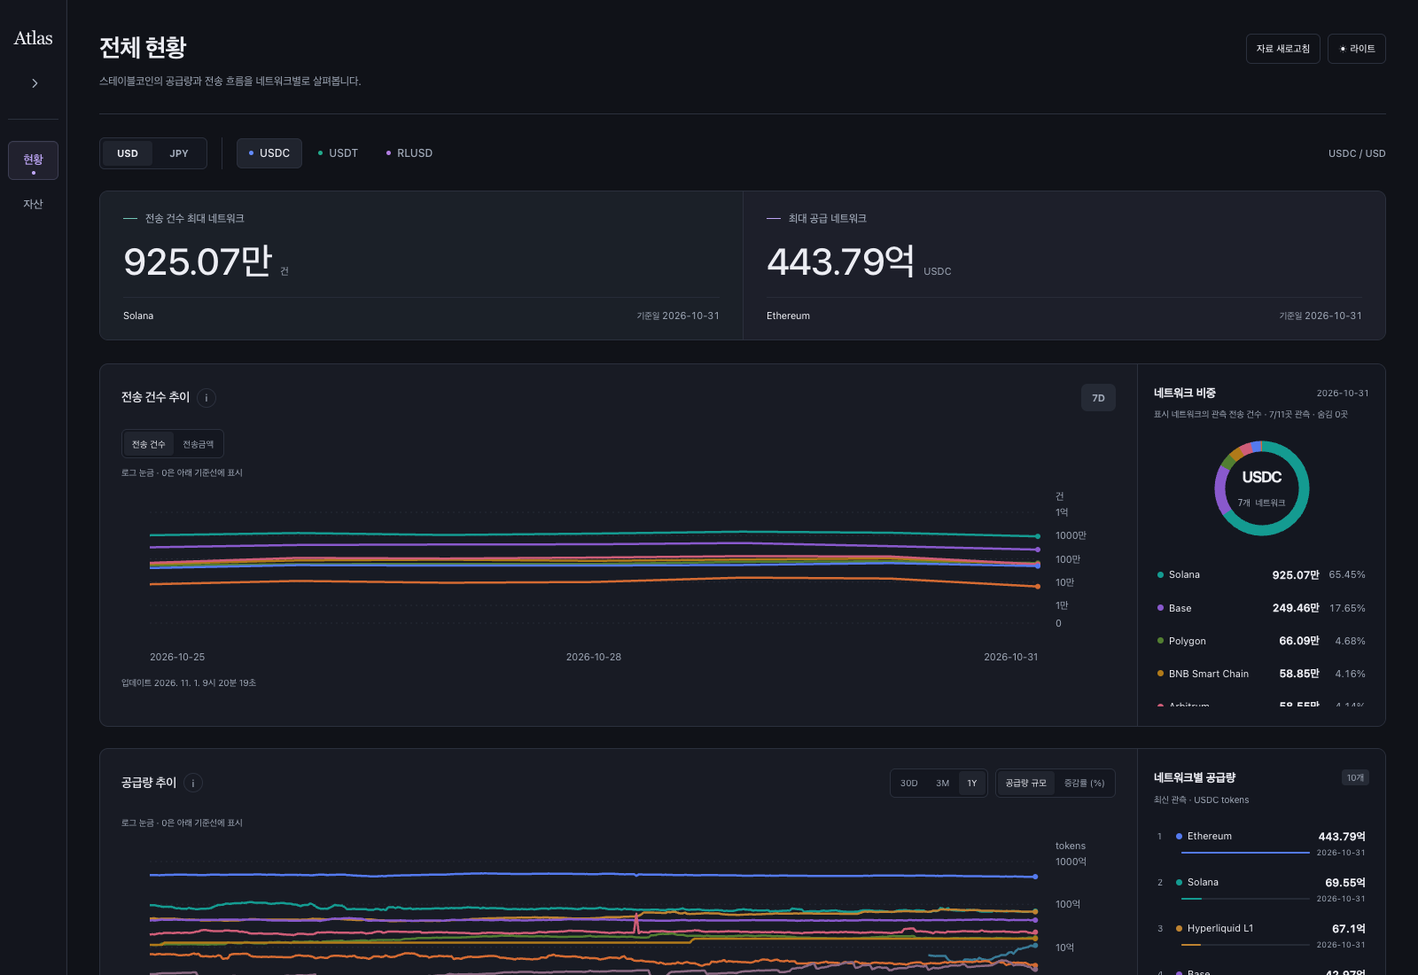
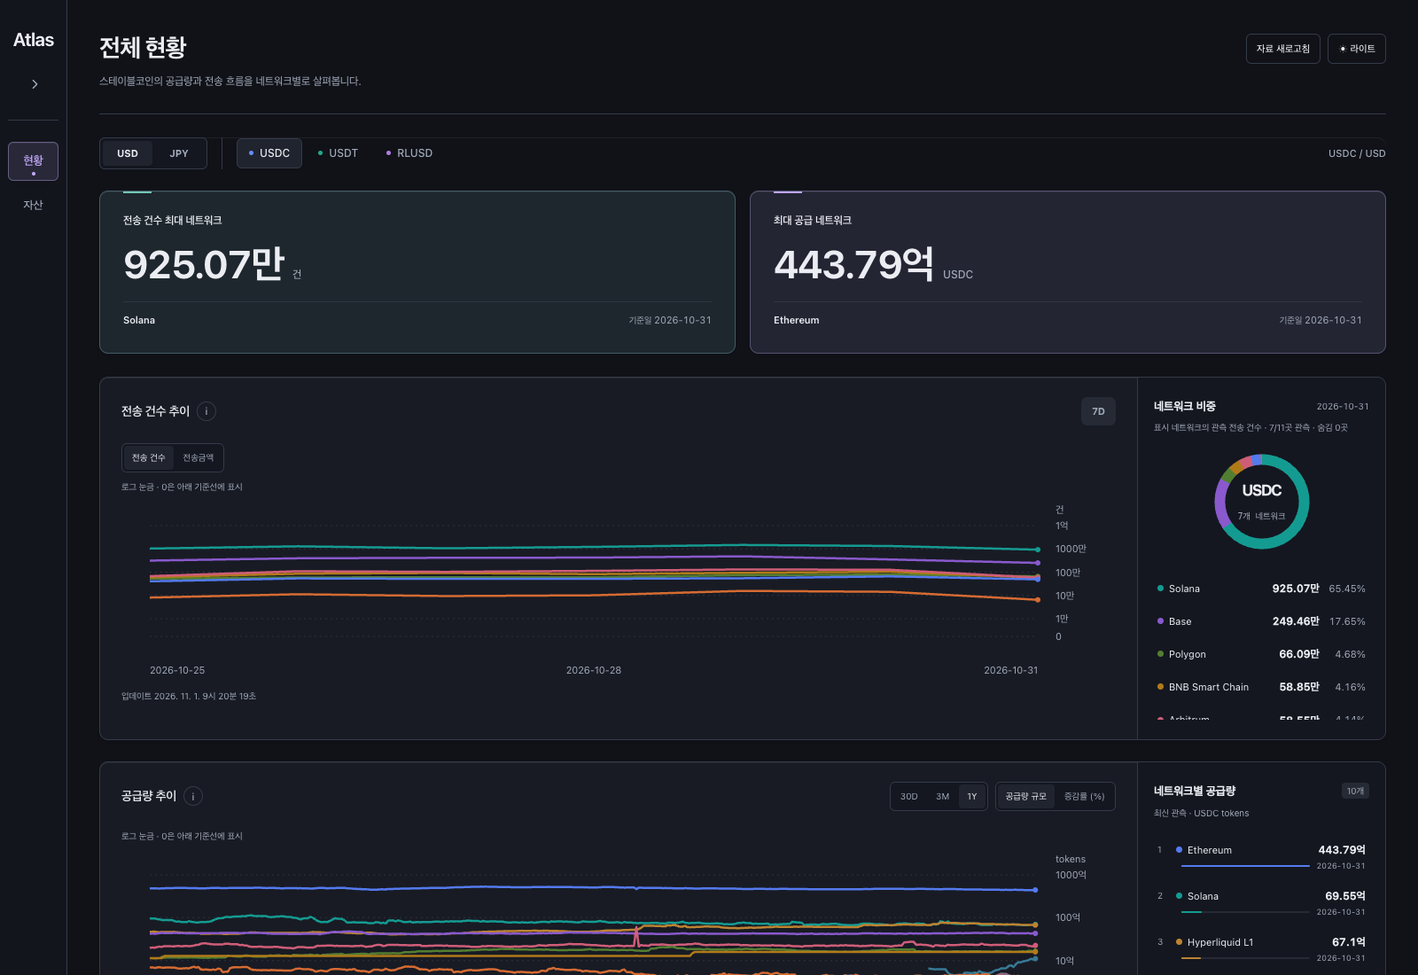
Strengthen dashboard typography and financial data hierarchy

diff --git a/web/styles.css b/web/styles.css
@@ -1,5 +1,5 @@
 /* Atlas surfaces: graphite canvas, quiet separators, violet selection, semantic data colors. */
-:root{color-scheme:dark;--bg:#101218;--nav:#13151d;--panel:#181b24;--line:#2b303d;--muted:#a2abba;--ink:#ecedf3;--teal:#73c7b8;--purple:#bda5f5;--blue:#91afff;--pink:#dfa0bd;--track:#252a35;--tint:#302940;--control:#141720;--active:#30313e;--notice:#302b22;--notice-ink:#e8c58c;--shadow:0 12px 36px #0005;--surface-raised:#20242e;--hover:#222630;--danger:#ed9eaa;--sidebar-width:224px;--radius-sm:6px;--radius-md:10px;--radius-lg:14px;--space-1:4px;--space-2:8px;--space-3:12px;--space-4:16px;--space-5:24px;--space-6:32px;--text-xs:11px;--text-sm:12px;--text-base:14px;--text-heading:28px;--text-data:34px;--font-ui:-apple-system,BlinkMacSystemFont,"Apple SD Gothic Neo","Noto Sans KR",sans-serif;--font-data:"SF Pro Display",-apple-system,BlinkMacSystemFont,"Apple SD Gothic Neo",sans-serif}
+:root{color-scheme:dark;--bg:#101218;--nav:#13151d;--panel:#181b24;--line:#343a49;--muted:#a2abba;--ink:#ecedf3;--teal:#73c7b8;--purple:#bda5f5;--blue:#91afff;--pink:#dfa0bd;--track:#252a35;--tint:#302940;--control:#141720;--active:#30313e;--notice:#302b22;--notice-ink:#e8c58c;--shadow:0 12px 36px #0005;--surface-raised:#20242e;--hover:#222630;--danger:#ed9eaa;--sidebar-width:224px;--panel-edge:color-mix(in srgb,var(--ink) 7%,transparent);--panel-shadow:inset 0 1px var(--panel-edge),0 4px 16px #00000012;--radius-sm:6px;--radius-md:10px;--radius-lg:14px;--space-1:4px;--space-2:8px;--space-3:12px;--space-4:16px;--space-5:24px;--space-6:32px;--text-xs:11px;--text-sm:12px;--text-base:14px;--text-heading:28px;--text-data:34px;--font-ui:-apple-system,BlinkMacSystemFont,"Apple SD Gothic Neo","Noto Sans KR",sans-serif;--font-data:var(--font-ui)}
 :root[data-theme=light]{color-scheme:light;--bg:#f5f6f8;--nav:#eef0f4;--panel:#fff;--line:#d7dce5;--muted:#596477;--ink:#202737;--teal:#216e60;--purple:#6743ad;--blue:#375eb5;--pink:#9a4269;--track:#e8ebf1;--tint:#ece5f8;--control:#f1f3f6;--active:#fff;--notice:#faf0dd;--notice-ink:#795515;--shadow:0 12px 36px #26324c14;--surface-raised:#fff;--hover:#e8ebf1;--danger:#a4354b}
 *{box-sizing:border-box}html{scroll-behavior:smooth;scroll-padding-top:24px}body{margin:0;background:var(--bg);color:var(--ink);font-family:-apple-system,BlinkMacSystemFont,"Apple SD Gothic Neo",sans-serif;font-size:14px;line-height:1.5;letter-spacing:-.2px}button,input{font:inherit}button,a,input{touch-action:manipulation}button{cursor:pointer}button,a{color:inherit}button{border:0}a{text-decoration:none}button:disabled{cursor:wait;opacity:.6}button:focus-visible,a:focus-visible,input:focus-visible,[tabindex]:focus-visible{outline:3px solid var(--purple);outline-offset:4px}button:focus:not(:focus-visible){outline:none}button,article,a{transition:background .18s,color .18s,box-shadow .18s}button:hover{filter:brightness(1.08)}button:active{transform:translateY(1px)}h1,h2,p{margin:0}h1{font-size:clamp(25px,2vw,32px);line-height:1.35;letter-spacing:-1px}h2{font-size:16px;font-weight:700}small{display:block}.muted,.chart-note{color:var(--muted)}.eyebrow{font-family:ui-monospace,Menlo,monospace;font-size:10px;letter-spacing:.8px;color:var(--muted);font-weight:600}.skip-link{position:fixed;left:250px;top:-100px;z-index:10;background:var(--panel);padding:12px}.skip-link:focus{top:12px}.sr-only{position:absolute;width:1px;height:1px;padding:0;margin:-1px;overflow:hidden;clip:rect(0,0,0,0);white-space:nowrap;border:0}[hidden]{display:none!important}
 .sidebar{position:fixed;inset:0 auto 0 0;width:232px;padding:28px 22px;display:flex;flex-direction:column;background:var(--nav);border-right:1px solid var(--line);z-index:3}.brand{display:flex;align-items:center;gap:12px;font-size:13px;font-weight:750;margin:0 3px 49px}.brand small{font-family:ui-monospace,Menlo,monospace;font-size:10px;color:var(--muted);letter-spacing:1px;margin-top:2px}.sidebar>.eyebrow{margin:0 5px 18px}.sidebar nav{margin:0 -8px}.nav-link{display:flex;width:100%;align-items:center;gap:17px;padding:12px 16px;border-radius:9px;background:none;text-align:left;color:var(--muted);margin-bottom:7px;font-size:13px}.nav-link>span:first-child{font-size:23px}.nav-link small{font-size:11px;font-weight:400;color:var(--muted);margin-top:2px}.nav-link.active{background:linear-gradient(90deg,#9d62e82e,#9d62e808);box-shadow:inset 3px 0 var(--purple);color:var(--ink);font-weight:650}.nav-link.active>span:first-child{color:var(--purple)}.nav-link:hover{background:var(--track)}.tracked{margin-top:25px;padding-top:28px;border-top:1px solid var(--line)}.tracked>.eyebrow{margin-bottom:15px}.tracked button{display:flex;align-items:center;gap:12px;background:none;font-size:13px;font-weight:600;padding:8px 2px;width:100%;text-align:left}.coin{width:35px;height:35px;display:inline-grid;place-items:center;border-radius:50%;font-size:17px;font-weight:700;flex:none}.usdt{color:var(--teal);background:color-mix(in srgb,var(--teal) 14%,transparent)}.usdc{color:var(--blue);background:color-mix(in srgb,var(--blue) 14%,transparent)}.rlusd{color:var(--purple);background:color-mix(in srgb,var(--purple) 14%,transparent)}.sidebar-bottom{margin-top:auto;padding-top:25px}.preview-note{background:var(--track);border-radius:12px;padding:16px;margin-bottom:22px}.preview-note .eyebrow{color:var(--purple)}.preview-note strong{display:block;font-size:13px;margin:8px 0 5px}.preview-note small{font-size:11px;color:var(--muted)}.primary-button{background:linear-gradient(120deg,#a351e4,#6959d9);color:#fff;border-radius:8px;min-height:40px;font-weight:650;padding:10px 18px;width:100%;margin-bottom:22px}.sidebar-bottom>.muted{font-family:ui-monospace,Menlo,monospace;font-size:9px;letter-spacing:.5px}
@@ -260,8 +260,8 @@ main>section{max-width:1560px;margin-inline:auto}
 .sidebar-brand-row{position:relative;display:flex;align-items:flex-start;gap:4px;margin:0 12px 32px;padding:8px 0 28px;min-height:108px;border-bottom:1px solid var(--line)}
 .sidebar .brand{display:flex;flex:1;min-width:0;margin:0;padding:0 0 2px;letter-spacing:0}
 .brand-name{display:flex;flex-direction:column;align-items:flex-start;line-height:1;color:var(--ink)}
-.brand-name>span{font-size:12px;font-weight:500;letter-spacing:1.1px;color:var(--muted);margin:0 0 5px 2px}
-.brand-name strong{display:block;font:400 46px/.95 Georgia,"Times New Roman",serif;letter-spacing:-2px;color:var(--ink)}
+.brand-name>span{font-size:12px;font-weight:550;letter-spacing:.65px;color:var(--muted);margin:0 0 7px 1px}
+.brand-name strong{display:block;font:650 40px/1 var(--font-ui);letter-spacing:-1.8px;color:var(--ink)}
 .navigation-toggle{display:grid;place-items:center;width:32px;height:36px;flex:none;border:1px solid transparent;border-radius:var(--radius-sm);color:var(--muted);background:transparent;padding:7px}
 .navigation-toggle:hover{color:var(--ink);background:var(--hover);border-color:var(--line)}
 .navigation-toggle svg{width:18px;height:18px;fill:none;stroke:currentColor;stroke-width:1.5;stroke-linecap:round;stroke-linejoin:round}
@@ -269,11 +269,11 @@ main>section{max-width:1560px;margin-inline:auto}
 .sidebar nav .nav-link{position:relative;min-height:58px;margin:0;padding:10px 14px;border:1px solid transparent;border-radius:var(--radius-sm);gap:0;font-size:13px;font-weight:500;line-height:1.5;color:var(--muted);background:transparent;box-shadow:none}
 .sidebar .nav-link>span:first-child{font-size:13px}
 .sidebar .nav-link small{font-size:11px;font-weight:400;line-height:1.5;margin-top:3px;color:var(--muted)}
-.sidebar nav .nav-link.active{background:color-mix(in srgb,var(--purple) 8%,var(--nav));color:var(--ink);font-weight:600;border-color:color-mix(in srgb,var(--purple) 12%,var(--line));box-shadow:inset 0 1px color-mix(in srgb,var(--ink) 3%,transparent)}
+.sidebar nav .nav-link.active{background:color-mix(in srgb,var(--purple) 13%,var(--nav));color:var(--ink);font-weight:600;border-color:color-mix(in srgb,var(--purple) 35%,var(--line));box-shadow:var(--panel-shadow)}
 .sidebar nav .nav-link.active::after{content:"";position:absolute;right:12px;top:18px;width:4px;height:4px;border-radius:50%;background:var(--purple)}
 .sidebar nav .nav-link:hover{color:var(--ink);background:var(--hover)}
-.nav-compact{display:none}.sidebar-context{margin-top:auto;padding:24px 12px 0;display:flex;gap:8px;align-items:baseline;color:var(--muted);font-size:11px;line-height:1.6}
-.context-dot{width:5px;height:5px;background:var(--muted);border-radius:50%;flex:none}.sidebar-context small{font-size:10px;margin-top:5px;max-width:150px}
+.nav-compact{display:none}.sidebar-context{margin: auto 12px 0;padding:20px 0 0;border-top:1px solid var(--line);display:flex;gap:8px;align-items:baseline;color:var(--muted);font-size:11px;line-height:1.6}
+.context-dot{width:5px;height:5px;background:var(--purple);border-radius:50%;flex:none}.sidebar-context small{display:block;font-size:10px;margin-top:6px;max-width:150px;color:var(--muted)}.sidebar-context>span:last-child{color:var(--ink);font-weight:500}
 .mobile-masthead{display:none}
 .page-header{padding-bottom:25px;margin-bottom:26px;border-bottom:1px solid var(--line);align-items:flex-start;gap:18px}
 .page-header h1+p{font-size:12px;color:var(--muted);margin-top:9px;line-height:1.8;max-width:68ch}
@@ -282,6 +282,7 @@ main>section{max-width:1560px;margin-inline:auto}
 .quiet-button:hover{background:var(--hover);border-color:var(--muted)}
 .primary-button{background:var(--purple);color:var(--bg);border-radius:var(--radius-sm)}
 .panel{border:1px solid var(--line);border-radius:var(--radius-md);padding:var(--space-5);background:var(--panel)}
+:is(.panel,.overview-metric-row,.metric-card,#live-screen .market-summary,.source-review-directory,.source-review-results){box-shadow:var(--panel-shadow)}
 .panel-heading{gap:16px;margin-bottom:20px}.panel-heading p{font-size:12px;line-height:1.7}.panel-heading .text-link{margin-top:3px}
 .text-link{font-size:11px;font-weight:500;color:var(--purple)}
 .chart-note{font-size:11px;line-height:1.7}.error-message{border-color:color-mix(in srgb,var(--danger) 45%,var(--line));color:var(--ink);background:color-mix(in srgb,var(--danger) 6%,var(--panel));border-radius:var(--radius-sm);padding:14px 16px;font-size:12px;line-height:1.8}
@@ -335,18 +336,18 @@ time,.metric-value,.market-stat-value,.summary-value,.trend-value,.supply-rank-a
 .overview-toolbar .supply-coin::before{content:"";display:inline-block;width:5px;height:5px;border-radius:50%;background:var(--coin-color);margin-right:7px;vertical-align:2px}
 .overview-toolbar .supply-coin:hover{background:var(--hover);color:var(--ink)}.overview-toolbar .supply-coin:disabled{opacity:.45;cursor:not-allowed}
 .overview-token-label{font-size:11px;letter-spacing:0;font-weight:500;color:var(--muted)}
-.overview-summary-grid{gap:0;border:1px solid var(--line);border-radius:var(--radius-md);background:var(--panel);margin-bottom:26px;overflow:hidden;box-shadow:0 4px 14px #0000000c,inset 0 1px color-mix(in srgb,var(--ink) 4%,transparent)}
-.overview-summary-card{min-height:158px;padding:22px 26px 18px;background:color-mix(in srgb,var(--purple) 3%,var(--panel));color:var(--ink);border-radius:0;overflow:visible}
-.summary-volume{background:color-mix(in srgb,var(--teal) 3%,var(--panel))}
-.overview-summary-card+.overview-summary-card{border-left:1px solid var(--line)}
-.overview-summary-card::before{display:none}.summary-heading{font-size:12px;color:var(--muted);font-weight:500;opacity:1;line-height:1.5}
-.summary-heading::before{content:"";width:16px;height:1px;background:var(--purple);margin-right:9px}.summary-heading{justify-content:flex-start}
+.overview-summary-grid{gap:16px;border:0;background:transparent;margin-bottom:26px;overflow:visible;box-shadow:none}
+.overview-summary-card{--summary-accent:var(--purple);min-height:184px;padding:24px 26px 18px;background:color-mix(in srgb,var(--summary-accent) 7%,var(--panel));color:var(--ink);border:1px solid color-mix(in srgb,var(--summary-accent) 24%,var(--line));border-radius:var(--radius-md);box-shadow:var(--panel-shadow);overflow:hidden}
+.summary-volume{--summary-accent:var(--teal)}
+
+.overview-summary-card::before{content:"";display:block;position:absolute;top:0;left:26px;right:auto;width:32px;height:2px;border:0;border-radius:0;background:var(--summary-accent)}.summary-heading{font-size:12px;color:var(--ink);font-weight:600;opacity:1;line-height:1.5}
+.summary-heading::before{display:none}.summary-heading{justify-content:flex-start}
 .summary-volume .summary-heading::before{background:var(--teal)}
-.summary-value{font-size:42px;line-height:1.15;font-weight:500;letter-spacing:-1.5px;margin-top:14px;gap:10px}
-.summary-value small{font-size:11px;letter-spacing:0;font-weight:400;color:var(--muted);opacity:1}
+.summary-value{font-size:44px;line-height:1.15;font-weight:650;letter-spacing:-1.5px;margin-top:14px;gap:10px}
+.summary-value small{font-size:12px;letter-spacing:0;font-weight:500;color:var(--muted);opacity:1}
 .summary-meta{font-size:11px;margin-top:17px;padding-top:11px;border-top:1px solid color-mix(in srgb,var(--line) 75%,transparent);opacity:1;color:var(--muted);gap:16px;justify-content:space-between}
 .summary-meta time::before{content:"기준일 ";font-family:var(--font-ui);font-size:10px;color:var(--muted)}
-.summary-meta>span{color:var(--ink)}.summary-meta time{padding-left:0;border:0}
+.summary-meta>span{color:var(--ink);font-weight:600}.summary-meta time{padding-left:0;border:0}
 .summary-stale{top:18px;right:20px;font-size:10px;background:var(--notice);color:var(--notice-ink);border:1px solid var(--line)}
 .overview-metric-row{grid-template-columns:minmax(0,1fr) 280px;gap:0;height:410px;border:1px solid var(--line);border-radius:var(--radius-md);background:var(--panel);overflow:hidden;margin-bottom:24px}
 .overview-card{border:0;border-radius:0;background:transparent;padding:22px 24px}
@@ -413,7 +414,7 @@ dialog::backdrop{background:#090c16a6}
 @media(max-width:900px){
  :root{--sidebar-width:0px}
  .mobile-masthead{display:flex;position:sticky;top:0;z-index:6;align-items:center;justify-content:space-between;gap:12px;min-height:56px;padding:10px 20px;background:var(--nav);border-bottom:1px solid var(--line)}
- .mobile-brand{display:flex;align-items:baseline;gap:7px;font-size:12px;letter-spacing:.2px;color:var(--muted)}.mobile-brand strong{font:400 24px/1 Georgia,"Times New Roman",serif;letter-spacing:-.8px;color:var(--ink)}
+ .mobile-brand{display:flex;align-items:baseline;gap:7px;font-size:12px;letter-spacing:.2px;color:var(--muted)}.mobile-brand strong{font:650 24px/1 var(--font-ui);letter-spacing:-.9px;color:var(--ink)}
  #mobile-nav-toggle{width:36px;height:36px}
  .sidebar{display:none;position:static;width:100%;height:auto;padding:12px 16px 16px;border-right:0;border-bottom:1px solid var(--line)}
  .mobile-navigation-open .sidebar{display:flex}
@@ -442,7 +443,7 @@ dialog::backdrop{background:#090c16a6}
  .header-actions{width:100%}.header-actions .quiet-button{min-height:36px}.header-actions button:last-child{margin-left:auto}
  .sidebar nav{grid-template-columns:1fr}.sidebar nav .nav-link{min-height:48px}.sidebar .nav-copy{display:flex;align-items:center;gap:14px}.sidebar .nav-link small{margin:0}
  .overview-toolbar .supply-selection{gap:12px}.supply-currency-tabs{border-right:1px solid var(--line);padding-right:10px}.overview-toolbar .supply-coins{gap:2px}.overview-toolbar .supply-coin{padding:6px 9px;font-size:11px}.overview-toolbar .supply-coin::before{margin-right:5px}
- .overview-summary-card{padding:18px 16px 14px;min-height:150px}.summary-heading{font-size:10px}.summary-heading::before{margin-right:6px}.summary-value{display:grid;grid-template-columns:minmax(0,1fr);grid-template-rows:auto 14px;min-height:52px;align-content:start;font-size:29px;gap:4px;letter-spacing:-.8px}.summary-value small{font-size:10px}.summary-meta{font-size:10px;display:block;margin-top:10px}.summary-meta time{display:block;border:0;padding:0;margin-top:3px}
+ .overview-summary-grid{gap:10px}.overview-summary-card{padding:18px 12px 14px;min-height:166px}.overview-summary-card::before{left:12px;width:24px}.summary-heading{font-size:10px}.summary-heading::before{margin-right:6px}.summary-value{display:grid;grid-template-columns:minmax(0,1fr);grid-template-rows:auto 14px;min-height:52px;align-content:start;font-size:29px;gap:4px;letter-spacing:-.8px}.summary-value small{font-size:10px}.summary-meta{font-size:10px;display:block;margin-top:10px}.summary-meta time{display:block;border:0;padding:0;margin-top:3px}
  .overview-card{padding:18px 14px}.overview-card-heading{gap:12px;align-items:flex-start}.overview-card .metric-title-row h2{font-size:14px}.overview-card .supply-switches{width:100%;flex-wrap:wrap;gap:6px}.overview-card .chart-filters button{font-size:10px;padding:6px 10px;min-height:30px}
  .overview-chart-plot .chart-note{font-size:10px}.overview-trend-card{min-height:290px}
  .overview-card.supply-network-ranking{padding:16px 14px}.overview-card .supply-rank-list{grid-template-columns:1fr;max-height:220px}.overview-card .supply-rank-name{font-size:12px}.overview-card .supply-rank-amount{font-size:13px}.supply-rank-day{font-size:10px}

diff --git a/docs/design/2026-11-01-interface-renewal.md b/docs/design/2026-11-01-interface-renewal.md
@@ -4,7 +4,7 @@
 
 ## 워드마크 방향 정정
 
-후속 사용자 지시에 따라 소문자 a 심벌을 제거했다. 기하학적 A, 육각형, 네트워크 노드 등 대체 심벌을 만들지 않는다. 작은 산세리프 Stablecoin과 큰 Georgia 세리프 Atlas를 함께 배치하고, 자간·크기·기준선·명암으로 브랜드를 표현한다. 접힌 사이드바에도 Atlas 단어를 유지하며 모바일은 같은 두 서체를 한 줄로 배치한다. 폰트는 설치된 시스템 글꼴이며 새 다운로드는 없다.
+후속 사용자 지시에 따라 소문자 a 심벌을 제거했다. 기하학적 A, 육각형, 네트워크 노드 등 대체 심벌을 만들지 않는다. 최신 사용자 정정에 따라 serif를 제거하고 작은 Stablecoin(12px/550)과 산세리프 Atlas(40px/650)를 함께 배치한다. 자간·크기·명암으로 브랜드를 표현하며 접힌 사이드바에도 Atlas 단어를 유지한다. 모바일은 같은 산세리프 계열을 한 줄로 배치한다. 폰트는 설치된 시스템 글꼴이며 새 다운로드는 없다.
 
 메뉴에는 장식 아이콘을 추가하지 않았다. 자산 선택 목록의 반복되는 이니셜도 제거했다. 메뉴 열기·접기처럼 기능이 명확한 조작 기호는 유지한다. 사이드바의 구획과 선택 표면을 다듬고 KPI는 미세한 색조 차이, 큰 수치, 가는 선, 네트워크·기준일 하단 영역으로 깊이를 만들었다. 모바일에서는 단위를 별도 행에 놓아 두 지표의 하단 정보가 같은 높이에 정렬된다.
 
@@ -19,13 +19,13 @@
 | Canvas | `#101218` | 페이지 배경 |
 | Navigation | `#13151d` | 탐색 영역 |
 | Surface | `#181b24` | 분석 영역 |
-| Separator | `#2b303d` | 데이터 구획 |
+| Separator | `#343a49` | 데이터 구획 |
 | Ink | `#ecedf3` | 본문·수치 |
 | Brand | `#bda5f5` | 선택 위치·링크 |
 
 라이트 모드는 같은 위계를 밝은 중립색으로 반전한다. `--muted`, `--surface-raised`, `--control`, `--hover`, 의미별 색상, 간격·radius·서체·글자 크기는 `web/styles.css`의 토큰을 공유한다. 시스템 글꼴을 사용해 한글과 숫자의 렌더링을 맞추며 외부 폰트를 다운로드하지 않는다. 숫자는 tabular figures, 원 주소·근거 식별자는 기존 표현을 유지한다.
 
-구조는 왼쪽의 지속적인 탐색 영역, 위쪽의 제목·작업, 통화·자산 선택, 숫자 요약, 차트와 네트워크 비교, 기술 근거 순서다. 처음 구상에서 모든 것을 개별 카드로 나누는 방식을 제외했다. 지표는 하나의 숫자 구획, 차트와 비교 목록은 하나의 분석 영역, 기술 검토 요약은 행 목록으로 달리 구성했다. 둥근 모서리와 보라색을 반복하는 대신 기능에 따라 정보의 밀도를 바꾼다.
+구조는 왼쪽의 지속적인 탐색 영역, 위쪽의 제목·작업, 통화·자산 선택, 숫자 요약, 차트와 네트워크 비교, 기술 근거 순서다. 처음 구상에서 모든 것을 개별 카드로 나누는 방식을 제외했다. 최신 정정에서 핵심 KPI는 각각 독립된 1px 경계와 청록·보라 7% 표면 색조, 44px/650 숫자를 가진 카드로 강조한다. 패널은 공통 10px 반경과 얕은 안쪽 하이라이트·그림자를 사용한다. 차트와 비교 목록은 하나의 분석 영역, 기술 검토 요약은 행 목록으로 달리 구성했다. 둥근 모서리와 보라색을 반복하는 대신 기능에 따라 정보의 밀도를 바꾼다.
 
 ## 변경
 

diff --git a/docs/research/2026-11-01-dashboard-hierarchy.md b/docs/research/2026-11-01-dashboard-hierarchy.md
@@ -1,0 +1,33 @@
+# 금융 데이터 대시보드 위계 정정 — 2026-11-01
+
+사용자는 serif Atlas의 잡지형 인상, 평평해진 KPI, 흐린 패널 경계를 정정 요청했다. 기존 design/atlas-interface-renewal 브랜치와 작업 디렉터리를 보존하고 하위 에이전트 없이 진행했다.
+
+## 구현과 판단
+
+- 브랜드와 데이터 서체를 기존 한글 지원 시스템 산세리프 스택으로 통일했다. Stablecoin 12px/550, Atlas 40px/650과 좁은 자간을 사용하며 모바일·접힌 탐색에도 같은 계열을 적용했다. 폰트 다운로드·심벌 추가는 없다.
+- 두 KPI를 독립된 1px 경계/10px 반경 카드로 복원했다. 청록·보라 7% 표면 색조, 짧은 상단 표식, 44px/650 수치, 보조 단위, 구분된 네트워크·기준일을 사용한다. 모바일의 29px 수치와 단위 전용 행, 동일한 하단 정보 높이는 유지했다.
+- 경계 토큰을 #343a49로 명확히 하고 얕은 안쪽 하이라이트와 그림자를 공통 토큰으로 묶었다. 분석 패널 내부는 분할선으로 구분해 중첩 카드가 되지 않게 했다.
+- 메뉴 선택의 색조·경계 대비를 높이고 하단 관측 자료 안내를 구분선·작은 점·2단 텍스트로 정리했다.
+- 기능·API·수치·원래 기준일·배포 구성은 변경하지 않았다. 운영 서버에 접속하거나 서비스를 변경하지 않았다.
+
+## 렌더링
+
+기존 로컬 DB reader preview와 설치 Chrome을 사용했다. 운영 HTML 변환을 로컬에서 렌더링한 화면과 개발 모드를 각각 검사했다. 실제 데이터의 전체 현황·프로필·시장 상세를 1600/1280/900/768/390/360px에서 확인했다. 데스크톱 다크·라이트와 모바일 스크린샷을 직접 검토해 로고 서체, 독립 KPI 경계, 숫자/기준일 정렬, 패널 대비가 요청한 방향으로 보이는지 확인했다.
+
+브라우저 검사 두 모드 PASS: 가로 넘침 없음, JS 오류 0, 브라우저 외부 HTTP 요청 0, 메뉴 접힘/재로드·모바일 메뉴·Escape·검색·popover·키보드 focus·reduced motion·로딩·실패 상태 통과. 서버의 기존 DB reader 조회는 사용하며 공급자 수집은 실행하지 않았다. 개발용 원문 보고서 미보유에 따른 기존 evidence 503은 그대로다.
+
+스크린샷은 docs/design/atlas-interface에 갱신했다. Chrome viewport 에뮬레이션이며 실물 모바일/Safari 검증은 아니다.
+
+## 재현
+
+- source .state/dev-env.sh
+- npm run check
+- ATLAS_DESIGN_SCREENSHOTS=.state/dashboard-refinement node tools/ui-design-browser-check.mjs http://127.0.0.1:54871
+- ATLAS_DESIGN_SCREENSHOTS=.state/dashboard-refinement/development node tools/ui-design-browser-check.mjs http://127.0.0.1:54871 --development
+- git diff --check
+
+검증 로그는 비공개 .state/agent-logs/dashboard-refinement-*에 보존한다.
+
+## 최종 검증 결과
+
+npm run check 종료 0. 본 검사 805 pass / 0 fail / 기존 compiler 관련 8 skip, 보존 경로 검사 74 pass / 0 fail: 총 879 pass. git diff --check 통과. 별도 디자인 브랜치에만 커밋·Push하며 운영 배포는 하지 않는다.

diff --git a/docs/handoff/2026-11-01-dashboard-hierarchy.md b/docs/handoff/2026-11-01-dashboard-hierarchy.md
@@ -1,0 +1,8 @@
+# 대시보드 위계 정정 인계 — 2026-11-01
+
+- 브랜치: design/atlas-interface-renewal. main/운영 서비스는 변경하지 않는다.
+- web/styles.css: serif 제거, 산세리프 워드마크, 독립 KPI 경계/색조/수치 위계, 공통 panel shadow/edge, 선명한 선택 메뉴·하단 안내. 기능/API 변경 없음.
+- 실제 reader 데이터 기반 Chrome 운영 HTML 변환/개발 모드 렌더링 모두 PASS. 데스크톱·모바일·라이트·접힌 탐색 스크린샷 직접 검토. docs/design/atlas-interface에 최신 화면 갱신.
+- 재현/상세: docs/research/2026-11-01-dashboard-hierarchy.md, docs/design/2026-11-01-interface-renewal.md.
+- 로컬 preview http://127.0.0.1:54871 유지. 브라우저에 ?design=financial-dashboard#overview 열었음.
+- 비공개 reader/CA 및 기존 미추적 새 PC 인계·연구 문서 두 개 보존. 운영 배포 없음. 전체 검사 결과는 연구 기록의 검증 결과를 따른다.
